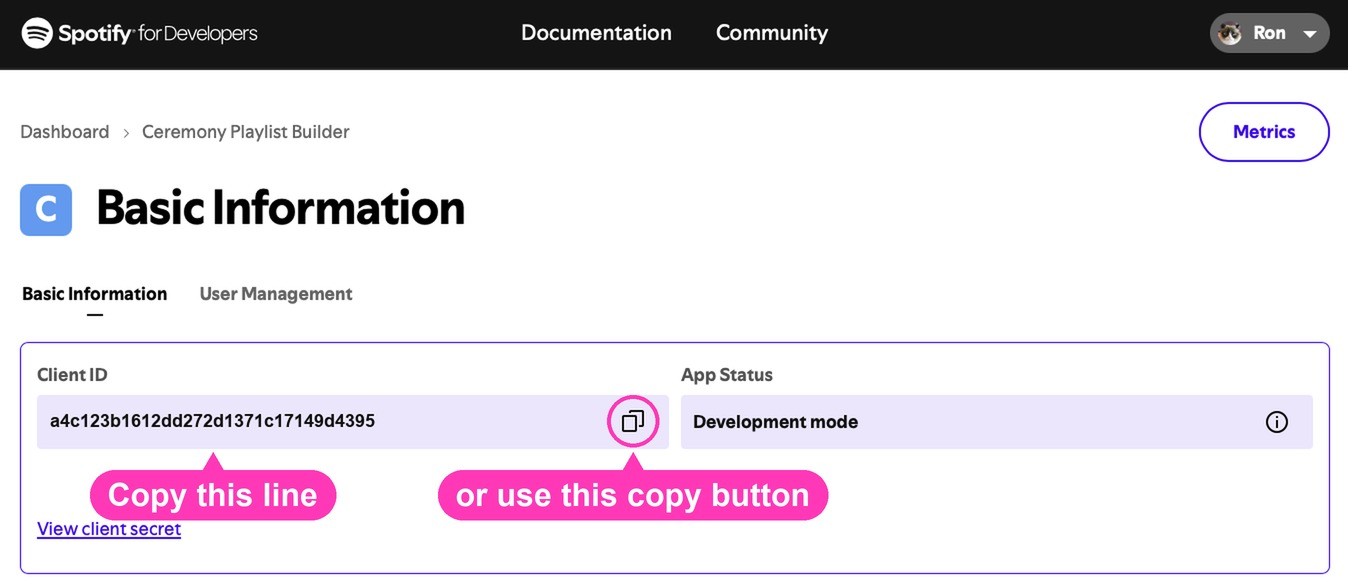
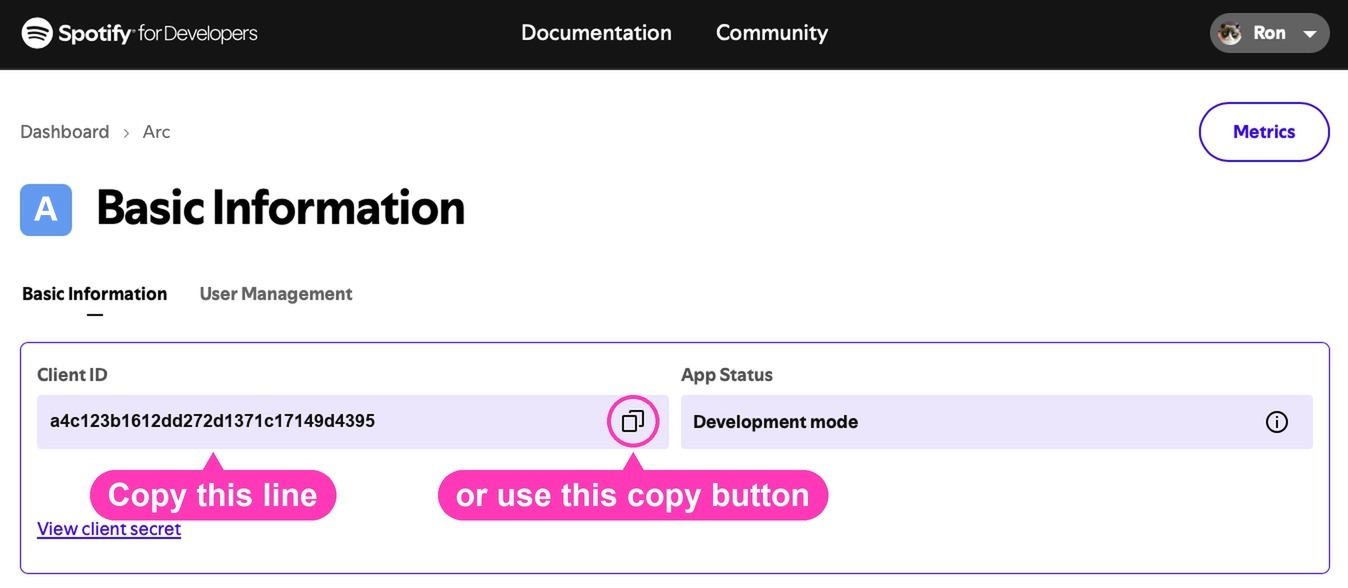
Setup screenshots show a Spotify app named Arc; worker comments and test package say Arc

diff --git a/tests/run.js b/tests/run.js
@@ -871,10 +871,10 @@ print(json.dumps(out))
   var rf = rp.document.getElementById("reportForm"), rq = reportParams(rp);
   check("the report is written in the page: a box for what happened, an optional email, and Send report, pale until something is typed", !!rf && rf.querySelector("#reportText") && rf.querySelector("#reportEmail").type === "email" && rf.querySelector(".mf-send").disabled === true && /Send report/.test(rf.querySelector(".mf-send").textContent) && !rp.document.getElementById("reportLink"));
   check("the details sent are exactly six, and nothing else", JSON.stringify(Object.keys(rq).sort()) === JSON.stringify([...REPORT_KEYS].sort()), JSON.stringify(Object.keys(rq)));
-  check("the details are real: version, browser, window size, python, last error, steps", rq.appVersion === "2026-11-11i" && / on /.test(rq.browser) && /^\d+x\d+$/.test(rq.windowSize) && /^ready \(Python v[\d.]+\)$/.test(rq.python) && rq.lastError === "none" && /^page opened > connected, 5 playlists found > python ready$/.test(rq.recentSteps), JSON.stringify(rq));
+  check("the details are real: version, browser, window size, python, last error, steps", rq.appVersion === "2026-11-11j" && / on /.test(rq.browser) && /^\d+x\d+$/.test(rq.windowSize) && /^ready \(Python v[\d.]+\)$/.test(rq.python) && rq.lastError === "none" && /^page opened > connected, 5 playlists found > python ready$/.test(rq.recentSteps), JSON.stringify(rq));
   rp.document.getElementById("reportSentToggle").click();
   var shown = rp.document.getElementById("reportPreview").textContent;
-  check("Sent with your message opens to show people exactly what goes with it", rp.document.getElementById("reportSent").hidden === false && /Version: 2026-11-11i/.test(shown) && /Browser: .* on /.test(shown) && /Window size: \d+x\d+/.test(shown) && /Python: ready \(v/.test(shown) && /Last error: none/.test(shown) && /Recent steps: page opened > connected/.test(shown), shown);
+  check("Sent with your message opens to show people exactly what goes with it", rp.document.getElementById("reportSent").hidden === false && /Version: 2026-11-11j/.test(shown) && /Browser: .* on /.test(shown) && /Window size: \d+x\d+/.test(shown) && /Python: ready \(v/.test(shown) && /Last error: none/.test(shown) && /Recent steps: page opened > connected/.test(shown), shown);
   check("the version has no label of its own in the page", rp.document.getElementById("appVersionLabel") === null);
   check("there is no include-my-formats option, and a report never carries formats (the only checkbox in Remove built playlists is the remove toggle)", !/include my formats/i.test(rp.document.body.textContent) && !("formats" in rq) && !rp.document.querySelector('#removeSection input[type="checkbox"]:not(#removeToggle)'));
   check("every Report this problem link opens the page's report form, not another site", ["mainReportHint", "removeReportHint", "loginReportHint", "connectionReportHint"].every((id) => { const a = rp.document.getElementById(id).querySelector("a"); return a.classList.contains("report-open") && a.getAttribute("href") === "#"; }));
@@ -2934,7 +2934,7 @@ print(json.dumps([counts, r["shared"], [s["has"] for s in r["sources"]], c["sour
   ws_w.eval("window.__delays = []; window.setTimeout = function (f, ms) { window.__delays.push(ms); f(); return 0; };");
   ws_w.eval(ws_src);
   ws_w.sessionStorage.setItem("startupRefreshed", "1");   // a fresh load has already been tried this visit, so the popup shows at once
-  ws_w.dispatchEvent(new ws_w.ErrorEvent("error", { message: "Unexpected token", filename: "http://127.0.0.1:8000/app.js?v=2026-11-11i", lineno: 12 }));
+  ws_w.dispatchEvent(new ws_w.ErrorEvent("error", { message: "Unexpected token", filename: "http://127.0.0.1:8000/app.js?v=2026-11-11j", lineno: 12 }));
   ws_w.dispatchEvent(new ws_w.Event("load"));
   var ws_box = ws_w.document.getElementById("startupProblem");
   check("the watchdog marks the page as not started until the script says so", ws_w.pageStart.started === false);
@@ -5280,7 +5280,7 @@ print(json.dumps([counts, r["shared"], [s["has"] for s in r["sources"]], c["sour
   var sr_make = async (opts = {}) => {
     const w = await boot({ url: "http://127.0.0.1:8000/", session: opts.session || {} });
     w.eval(sr_src);
-    w.document.head.insertAdjacentHTML("beforeend", ["theme.js", "formats.js", "editor.js", "app.js"].map((f) => `<script src="${f}?v=2026-11-11i"></script>`).join(""));   // the page's own script tags, as a browser has them (added as text, since the checks' page treats a script added by code as a file to load)
+    w.document.head.insertAdjacentHTML("beforeend", ["theme.js", "formats.js", "editor.js", "app.js"].map((f) => `<script src="${f}?v=2026-11-11j"></script>`).join(""));   // the page's own script tags, as a browser has them (added as text, since the checks' page treats a script added by code as a file to load)
     w.__fetched = []; w.__reloaded = 0;
     w.fetch = (url, init) => { w.__fetched.push({ url: String(url), cache: init && init.cache }); return Promise.resolve({ ok: opts.fetchOk !== false && !(opts.failPage && /\/$|index/.test(String(url).replace("http://127.0.0.1:8000", "") || "/")) }); };
     w.pageStart.reload = () => { w.__reloaded += 1; };

diff --git a/index.html b/index.html
@@ -17,8 +17,8 @@
     document.querySelector("#devPhoneBar button").onclick = function () { try { localStorage.removeItem("devPhoneWidth"); } catch (e) {} location.reload(); };
   })();
 </script>
-<meta name="app-version" content="2026-11-11i">
-<script src="theme.js?v=2026-11-11i"></script>
+<meta name="app-version" content="2026-11-11j">
+<script src="theme.js?v=2026-11-11j"></script>
 <meta charset="utf-8">
 <meta name="viewport" content="width=device-width, initial-scale=1, viewport-fit=cover">
 <title>Arc</title>
@@ -2458,10 +2458,10 @@
     <div id="msFlowWrap" class="ms-flowwrap" hidden><div id="msFlow" role="dialog" aria-modal="true" aria-labelledby="msFlowTitle" tabindex="-1"><div id="msFlowHead"></div><div id="msFlowBody"></div><div id="msFlowFoot" hidden></div></div></div>
   </div>
 </div>
-<script src="formats.js?v=2026-11-11i"></script>
-<script src="editor.js?v=2026-11-11i"></script>
-<script src="shared-spotify.js?v=2026-11-11i"></script>
-<script src="app.js?v=2026-11-11i"></script>
-<script src="sharing.js?v=2026-11-11i"></script>
+<script src="formats.js?v=2026-11-11j"></script>
+<script src="editor.js?v=2026-11-11j"></script>
+<script src="shared-spotify.js?v=2026-11-11j"></script>
+<script src="app.js?v=2026-11-11j"></script>
+<script src="sharing.js?v=2026-11-11j"></script>
 </body>
 </html>

diff --git a/theme.js b/theme.js
@@ -10,7 +10,7 @@
 // To add a theme, add a line to THEMES (the id is only for remembering the choice, so keep it the same once people may have chosen it; the name is what the list shows). To try two colors without changing any file, open the page with
 // ?accent=0a84ff&neutral=8a8a92 on the end of the address (hex colors; ?theme=reset goes back).
 // This file runs first, in the <head>, so the colors are in place before anything is drawn.
-(globalThis.scriptVersions = globalThis.scriptVersions || {})["theme.js"] = "2026-11-11i";   // this file's version, checked against the app's at startup (checkScriptVersions in app.js)
+(globalThis.scriptVersions = globalThis.scriptVersions || {})["theme.js"] = "2026-11-11j";   // this file's version, checked against the app's at startup (checkScriptVersions in app.js)
 
 const THEMES = [   // in the order the swatches show: around the color wheel from Pink, row by row, Silver last (Ron, 2026-11-09)
   { id: "pinks-and-grays", name: "Pink", accent: "#ff38b8", neutral: "#8a8a92" },

diff --git a/sharing.js b/sharing.js
@@ -6,7 +6,7 @@
 // and ISRCs, and a short summary made on the sharer's device; who someone is comes from their Spotify sign-in, checked by the worker.
 // The page does the rest itself: search, sorting, filters, mood words (the ones used on more than one shared playlist) and overlap with the person's recipes.
 // Classic script, loaded after app.js; it uses app.js and editor.js names at run time.
-(globalThis.scriptVersions = globalThis.scriptVersions || {})["sharing.js"] = "2026-11-11i";   // this file's version, checked against the app's at startup (checkScriptVersions in app.js)
+(globalThis.scriptVersions = globalThis.scriptVersions || {})["sharing.js"] = "2026-11-11j";   // this file's version, checked against the app's at startup (checkScriptVersions in app.js)
 
 const SHARING_URL = "https://music-sharing.roncarmel.workers.dev";
 const SHARE_DESC_MAX = 300, SHARE_OTHER_MAX = 24, SHARE_MOOD_CHARS = 30, SHARE_MOODS_MAX = 8;   // the worker checks the same

diff --git a/shared-spotify.js b/shared-spotify.js
@@ -1,7 +1,7 @@
 // shared-spotify.js: talking to Spotify, shared by this repository's apps (the playlist builder, and later the tagger). Sign-in (PKCE in the browser,
 // no secret, no server), the refresh token, requests with their limits and waits, and the record of those limits. It shows nothing itself: each page
 // fills spotifyHooks with what to do and say, so this file names no element of any page. Loaded before the page's own script.
-(globalThis.scriptVersions = globalThis.scriptVersions || {})["shared-spotify.js"] = "2026-11-11i";   // this file's version, checked against the app's at startup (checkScriptVersions in app.js)
+(globalThis.scriptVersions = globalThis.scriptVersions || {})["shared-spotify.js"] = "2026-11-11j";   // this file's version, checked against the app's at startup (checkScriptVersions in app.js)
 
 const spotifyHooks = {
   scopes: "",                  // the permissions the sign-in asks for, space separated

diff --git a/formats.js b/formats.js
@@ -2,7 +2,7 @@
 //
 // The text is the same Python-style text the engine reads (engine.py). The editor never asks people to
 // type it; it only keeps it up to date. Nothing in this file touches the page.
-(globalThis.scriptVersions = globalThis.scriptVersions || {})["formats.js"] = "2026-11-11i";   // this file's version, checked against the app's at startup (checkScriptVersions in app.js)
+(globalThis.scriptVersions = globalThis.scriptVersions || {})["formats.js"] = "2026-11-11j";   // this file's version, checked against the app's at startup (checkScriptVersions in app.js)
 
 // Silence lengths the editor steps through, in seconds: 30 sec, 1 to 10 min by the minute, then every 5 min up to 60 min
 const SILENCE_STEPS = [30, 60, 120, 180, 240, 300, 360, 420, 480, 540, 600, 900, 1200, 1500, 1800, 2100, 2400, 2700, 3000, 3300, 3600];

diff --git a/editor.js b/editor.js
@@ -4,7 +4,7 @@
 // ($("formats")) in the form the engine reads, and the page is told with an ordinary "input" event, so
 // everything else (previews, backups, saving) works on that text exactly as before.
 // formats.js does the reading and writing of that text. This file draws and handles the screen.
-(globalThis.scriptVersions = globalThis.scriptVersions || {})["editor.js"] = "2026-11-11i";   // this file's version, checked against the app's at startup (checkScriptVersions in app.js)
+(globalThis.scriptVersions = globalThis.scriptVersions || {})["editor.js"] = "2026-11-11j";   // this file's version, checked against the app's at startup (checkScriptVersions in app.js)
 
 // The editor has one color, the theme's accent (--button), and a deeper shade of it (--accent-deep) for the second stripe of a mix.
 const FE_ROW_HEIGHT = 52;

diff --git a/cloudflare/music-sharing/worker.js b/cloudflare/music-sharing/worker.js
@@ -1,4 +1,4 @@
-// Music sharing: a Cloudflare Worker with a D1 database (schema.sql), for Ceremony Playlist Builder.
+// Music sharing: a Cloudflare Worker with a D1 database (schema.sql), for Arc.
 // People share their own playlists (a type: ceremony, phase, mood or other, with its books, phases, mood words or name, a description,
 // the songs as Spotify IDs and ISRCs, a short summary) and copy each other's.
 // Each song's title, artist and length are kept too, but sent only for one playlist at a time (GET /songs/:id, when its page opens), never with the library.

diff --git a/app.js b/app.js
@@ -15,7 +15,7 @@ const ADD_CHUNK_SMALL = 10; // what is tried instead if Spotify refuses 100
 const REMOVE_CHUNK = 40;   // playlists removed per request (Spotify's maximum)
 
 const ALL_FORMATS = "__all__";  // dropdown value that means every format
-const APP_VERSION = "2026-11-11i";
+const APP_VERSION = "2026-11-11j";
 
 // Every playlist this app creates gets this at the start of its description. That is the one way the app tells its
 // own playlists from ones you made by hand, so it works on any device, and nothing is stored in this browser for it.

diff --git a/cloudflare/retry-after.js b/cloudflare/retry-after.js
@@ -1,4 +1,4 @@
-// A Cloudflare Worker for Ceremony Playlist Builder.
+// A Cloudflare Worker for Arc.
 // Spotify sends a Retry-After header with a rate limit, but does not let a web page read it. After a rate limit with no readable wait, the page asks this
 // worker to send one GET to Spotify with the person's sign-in, and the worker answers with only the status, Retry-After and the reason.
 // Spotify limits each kind of request on its own (/me can answer while /me/playlists is refused), so the page says which kind, as ?path=, and

diff --git a/CLAUDE.md b/CLAUDE.md
@@ -111,7 +111,7 @@ Naming: the person sees "recipe". The code still says "format" in identifiers (`
 - Reports: a reason and an optional note, emailed to Ron through Resend; three reports from different people hide a playlist. The email's links are signed and lead to a page with a button (mail scanners change nothing). The DEV menu has Manage mood words (words with counts, "piano (9)"; click to hide or show, struck through when hidden; filters Shown, Hidden, All) and Review reports, each opening alone in `#infoOverlay` (`#devMoods`, `#devReports`), shown only to Ron (the worker checks every change anyway, `OWNER_SPOTIFY_IDS`); someone who finds developer mode never sees them.
 
 **Interface**
-- **Arc's home** (decided by Ron, 2026-11-08, mockup A and bar 1 in `mockups/arc-home.html`): the app page has three views, a class on `<html>` (`view-home`, `view-builder`, `view-sharing`; `showView`, `goHome`, `appView` in app.js). It always opens on home (the `<head>` script adds `view-home`; Ron chose this over opening the last tool). Home (`#homePage`, `hp-*`; layout C, decided by Ron, 2026-11-08): the welcome page's pink band (icon, Arc, tagline; a tap on the icon shows the version, a hold toggles developer mode), Your tools, then a card per tool of three lines that never wrap (A1, decided by Ron, 2026-11-09, `mockups/home-a1-iter-2.html`): an icon as tall as the first two lines and lined up with them, the name, a grey tagline, and what is waiting, its numbers pink, bold and 1.15 times larger without making the line taller (`hp-num`, `putCounts`), then a grey chevron. Playlist builder, Ceremony playlists, ready in minutes, **N recipes ready to build** (no recipes: the card is its first two lines; `renderHomeRecipes` in app.js, called from `syncEditorFromText` and on showing home); Shared playlist library, Bring some, get some!, **Y shares by you, Z by others** (always both, zeros too; "shares" on purpose, not playlists) (`renderSharingCard`; hidden while Coming soon). The taglines and the third lines' words share one size, shrunk together by a tenth of a pixel only when one would not fit (`fitHomeLines`). Then Everything else. Arc's bar is hidden on home outside developer mode (it would be empty). Arc's bar (`#appBar`, `ab-*`) is over every view: the icon and Arc go home, then / and the tool's name as a capsule (below 760 px the sharing tool is Shared playlists, since Shared playlist library does not fit; `toolName`, Ron, 2026-11-09, `mockups/bar-name-fit.png`; renamed 2026-11-10, `mockups/name-new-*.png`; at 320 px it is cut short, as the old name was) with a pink caret that opens a list (`#appToolMenu`, `ab-mi`, `openToolMenu`/`chooseTool` in app.js; decided by Ron, 2026-11-08, `mockups/switch-tools.html` A): both tools with their taglines, the one shown ticked, Music sharing greyed as Coming soon outside developer mode, then Arc home; going from one tool to the other replaces the tool's history step, so back still goes home; a tap elsewhere only closes it, Escape too. Then the ⋯ menu (`#feAppMenu`, moved out of the editor's top row; the editor's rules are copied for the bar at startup, `copyEditorStylesToBar` in editor.js). The ⋯ shows in both tools, not on home (`html.page-app.view-home #feAppMenu`); in Music sharing it holds Connect to Spotify while not connected, Feedback, Report a problem and the version (Ron, 2026-11-10). From one tool to the other the tool below Arc's bar slides half a screen and fades, as if Music sharing sat below the builder: to sharing it goes up, to the builder down; the bar stays, its name crossfading (`slideTools` in app.js, `vt-tools` in index.html, View Transitions; none under reduced motion; Ron, 2026-11-08, `mockups/tool-motion.html` B over a full push, a quarter screen, 30 px and a plain fade). Between home and a tool the whole screen slides sideways like the setup screens, a tool in from the right and home back from the left (`slideHome`, `vt-home`; also for the browser's back, not when the browser animates the gesture itself; Ron, 2026-11-09). Home has, under the tool cards, **Everything else** (`#homeMore`, `hp-ee-*`; decided by Ron, 2026-11-09, `mockups/home-a1-iter-2.html` E4): one card that is a bar of grey icons, each a tab (Color, Change Spotify login, Sign out and clear data, Privacy, Report a problem, Feedback; no title). Color is a grid of swatches, six to a row, around the color wheel from Pink with Silver last (the order of `THEMES`), the chosen one ringed and no name shown (`initThemeChooser`, a radio group). A tap lights one in a pale pink square and opens its panel under the bar (`openHomeTab`, `initHomeMore` in app.js); the X at the bar's end (kept in place, invisible, while nothing is open), a tap on the lit icon, or Escape closes it; arrow keys move between icons. Report a problem's panel holds `#reportBlock` itself (the builder's menu and every Report this problem link, `.report-open`, `openReport`, open it in `#infoOverlay`, and it comes back). **Report a problem and Feedback are forms in Arc** (decided by Ron, 2026-11-09, over Tally; `mockups/report-no-tally.html`): a box (What happened? or Your message), an optional email for a reply, and Send report or Send, pale until something is typed; a report adds the six details (`reportDetails`), shown behind Sent with your message. Sending posts to the worker's POST /message (`sendMessageForm`, `.mf-*`), which emails Ron through Resend with the email as reply-to, keeps nothing, and takes at most 10 a day per address (an HMAC of the IP in `daily`). Then a check, Report sent or Sent, and Send another. The report's line is in Ron's voice: I (Ron) read every report and respond when I can. The worker must be deployed for it to work. **Privacy** (`#privacySection`, decided by Ron, 2026-11-08) is short: a lead line on what Arc stands for (runs in your browser, stays between the browser and the person's own Spotify unless shared, no accounts or ads), then one bulleted line each: In this browser, In your Spotify, Music sharing (`#privacyMusicSharing`, only in developer mode), Tutorial video, Anonymous counts, Spotify waits (`#privacyWaitRelay`, only with a relay), Reports and feedback (emailed only when sent). Keep it brief; it was a long popup of seven topics before. Music sharing has no menu of its own yet. Opening a tool pushes a history step, so back returns home; a reload clears it. Setup complete's Continue leaves home in view. Built playlists' marker is now "Made by Arc"; the old "Made by Ceremony Playlist Builder" is still read (`OLD_APP_MARKERS`, `madeByAppText`). Not yet: notices and the attention line live in the builder only, so they are not seen from home or Music sharing; the setup screenshots still show an app named Ceremony Playlist Builder.
+- **Arc's home** (decided by Ron, 2026-11-08, mockup A and bar 1 in `mockups/arc-home.html`): the app page has three views, a class on `<html>` (`view-home`, `view-builder`, `view-sharing`; `showView`, `goHome`, `appView` in app.js). It always opens on home (the `<head>` script adds `view-home`; Ron chose this over opening the last tool). Home (`#homePage`, `hp-*`; layout C, decided by Ron, 2026-11-08): the welcome page's pink band (icon, Arc, tagline; a tap on the icon shows the version, a hold toggles developer mode), Your tools, then a card per tool of three lines that never wrap (A1, decided by Ron, 2026-11-09, `mockups/home-a1-iter-2.html`): an icon as tall as the first two lines and lined up with them, the name, a grey tagline, and what is waiting, its numbers pink, bold and 1.15 times larger without making the line taller (`hp-num`, `putCounts`), then a grey chevron. Playlist builder, Ceremony playlists, ready in minutes, **N recipes ready to build** (no recipes: the card is its first two lines; `renderHomeRecipes` in app.js, called from `syncEditorFromText` and on showing home); Shared playlist library, Bring some, get some!, **Y shares by you, Z by others** (always both, zeros too; "shares" on purpose, not playlists) (`renderSharingCard`; hidden while Coming soon). The taglines and the third lines' words share one size, shrunk together by a tenth of a pixel only when one would not fit (`fitHomeLines`). Then Everything else. Arc's bar is hidden on home outside developer mode (it would be empty). Arc's bar (`#appBar`, `ab-*`) is over every view: the icon and Arc go home, then / and the tool's name as a capsule (below 760 px the sharing tool is Shared playlists, since Shared playlist library does not fit; `toolName`, Ron, 2026-11-09, `mockups/bar-name-fit.png`; renamed 2026-11-10, `mockups/name-new-*.png`; at 320 px it is cut short, as the old name was) with a pink caret that opens a list (`#appToolMenu`, `ab-mi`, `openToolMenu`/`chooseTool` in app.js; decided by Ron, 2026-11-08, `mockups/switch-tools.html` A): both tools with their taglines, the one shown ticked, Music sharing greyed as Coming soon outside developer mode, then Arc home; going from one tool to the other replaces the tool's history step, so back still goes home; a tap elsewhere only closes it, Escape too. Then the ⋯ menu (`#feAppMenu`, moved out of the editor's top row; the editor's rules are copied for the bar at startup, `copyEditorStylesToBar` in editor.js). The ⋯ shows in both tools, not on home (`html.page-app.view-home #feAppMenu`); in Music sharing it holds Connect to Spotify while not connected, Feedback, Report a problem and the version (Ron, 2026-11-10). From one tool to the other the tool below Arc's bar slides half a screen and fades, as if Music sharing sat below the builder: to sharing it goes up, to the builder down; the bar stays, its name crossfading (`slideTools` in app.js, `vt-tools` in index.html, View Transitions; none under reduced motion; Ron, 2026-11-08, `mockups/tool-motion.html` B over a full push, a quarter screen, 30 px and a plain fade). Between home and a tool the whole screen slides sideways like the setup screens, a tool in from the right and home back from the left (`slideHome`, `vt-home`; also for the browser's back, not when the browser animates the gesture itself; Ron, 2026-11-09). Home has, under the tool cards, **Everything else** (`#homeMore`, `hp-ee-*`; decided by Ron, 2026-11-09, `mockups/home-a1-iter-2.html` E4): one card that is a bar of grey icons, each a tab (Color, Change Spotify login, Sign out and clear data, Privacy, Report a problem, Feedback; no title). Color is a grid of swatches, six to a row, around the color wheel from Pink with Silver last (the order of `THEMES`), the chosen one ringed and no name shown (`initThemeChooser`, a radio group). A tap lights one in a pale pink square and opens its panel under the bar (`openHomeTab`, `initHomeMore` in app.js); the X at the bar's end (kept in place, invisible, while nothing is open), a tap on the lit icon, or Escape closes it; arrow keys move between icons. Report a problem's panel holds `#reportBlock` itself (the builder's menu and every Report this problem link, `.report-open`, `openReport`, open it in `#infoOverlay`, and it comes back). **Report a problem and Feedback are forms in Arc** (decided by Ron, 2026-11-09, over Tally; `mockups/report-no-tally.html`): a box (What happened? or Your message), an optional email for a reply, and Send report or Send, pale until something is typed; a report adds the six details (`reportDetails`), shown behind Sent with your message. Sending posts to the worker's POST /message (`sendMessageForm`, `.mf-*`), which emails Ron through Resend with the email as reply-to, keeps nothing, and takes at most 10 a day per address (an HMAC of the IP in `daily`). Then a check, Report sent or Sent, and Send another. The report's line is in Ron's voice: I (Ron) read every report and respond when I can. The worker must be deployed for it to work. **Privacy** (`#privacySection`, decided by Ron, 2026-11-08) is short: a lead line on what Arc stands for (runs in your browser, stays between the browser and the person's own Spotify unless shared, no accounts or ads), then one bulleted line each: In this browser, In your Spotify, Music sharing (`#privacyMusicSharing`, only in developer mode), Tutorial video, Anonymous counts, Spotify waits (`#privacyWaitRelay`, only with a relay), Reports and feedback (emailed only when sent). Keep it brief; it was a long popup of seven topics before. Music sharing has no menu of its own yet. Opening a tool pushes a history step, so back returns home; a reload clears it. Setup complete's Continue leaves home in view. Built playlists' marker is now "Made by Arc"; the old "Made by Ceremony Playlist Builder" is still read (`OLD_APP_MARKERS`, `madeByAppText`). Not yet: notices and the attention line live in the builder only, so they are not seen from home or Music sharing. The setup screenshots show a Spotify app named Arc, its name and letter put into the original shots in Spotify's own font (2026-11-11).
 - **Arc's icon in the page takes the theme's color** (decided by Ron, 2026-11-09): `arc-mark.png` is the white arc and the icon's shading, cut from `app-icon-1024.png` against its pink, drawn over `--icon-bg` (theme.js: the accent a little richer and darker, so the arc stands out on pale accents; Silver stays grey). The bands' icons and tool cards use it as a background, every `<img>` of the icon uses `src="arc-mark.png"` with `img[src="arc-mark.png"]` giving the color. The tools' badges draw in `--icon-ink` (readable on their white circle). The tab icon, the Home Screen icon, the launch pictures and the Spotify covers stay pink.
 - **The top strip** (`#topEdge`, `restStrip` in app.js; Ron, 2026-11-09): the Home Screen app on iOS 26 blurs the top of the page even at rest, reaching onto the band or Arc's bar (Safari's blur stays under the status bar, so Safari tabs get no strip). A fixed strip reaching 6 px below the status bar (whose inset is 0 there: the page starts below it) at 10% of `--bg` makes iOS stop that blur; 5% does not, and a strip only as tall as the status bar does nothing. It is there only while the page rests at its top (the window, or `#msBody` in Music sharing), so scrolling keeps the soft blur, and is put in as a new element 250 ms after scrolling stops at the top, because iOS does not notice a strip that only comes back (a small pop as the blur goes is expected). Found with test pages on Ron's iPhone: status bar styles, viewport-fit and longer solid strips were tried; solid strips cut the page off sharply.
 - **The welcome page** (decided by Ron, 2026-11-08, `mockups/welcome-v5.html`; its tool cards in home's look since 2026-11-09) has two steps. First (`#wpFirst`): a pink band with Arc's icon exactly as tall as the name and the two-line tagline beside it, the same gap on its left, top and bottom (`wp-band`, shown on both steps; `alignWelcomeIcons` sizes each icon to its letters with canvas text metrics, `letterBounds`); "Free tools for facilitators..." (no "sessions" as a use, a check enforces it); Requires Spotify Premium with Why?; Tools; a card per tool in home's look (Arc's icon with a white badge at the bottom right, `tool-icon`/`tool-badge`: rows for the builder, two arrows for sharing; the name; a grey tagline on one line, Ceremony playlists, ready in minutes and Bring some, get some!; a grey chevron that turns as it opens) and, outside developer mode, Music sharing's card under its own Coming soon heading (`#wpSoon`), like Tools that opens in place to its screenshot and text, one at a time (`toggleWelcomeTool`; the builder's has Where it helps as plain text); Get started. The sharing card's screenshot sits beside its text from 640 px up and above it on phones, light or dark (`welcome-sharing.jpg` dark, `-light`); the builder's card has the tutorial instead of a screenshot (see The tutorial video).jpg` dark, `-light`). Second (`#wpSetup`, `showWelcomeStep`, a history step so back returns; Ron, 2026-11-08, `mockups/welcome-setup-s3c.html`): under the band a dashed line leaves Arc's icon, turns right, passes a link at the middle of its level part (the check waits for the connection itself, on the connecting screen) and meets Spotify's mark (flat, white bars on a pink circle, no glow: Spotify's brand rules ask for no effects), placed where it would sit inside the band, Your Spotify under it; the dashes flow from Spotify to Arc, still under reduced motion (`drawSetupJoint`). Then Connect your Spotify account, one reassuring sentence (no dashboard or Client ID here, so nobody is scared off), Spotify Premium is needed for the connection., Back and Start setup. The welcome page hides `h1.brand`. The setup page that follows (decided by Ron, 2026-11-08, `mockups/setup-question-c3.html`) has the same band in place of `h1.brand` (on its steps too) and, over the question, the same line to Spotify's mark with the same link at its middle (`#spJoint`; `drawSetupJoint` draws every `.wp-joint`); while the steps show, the band is sticky where it sits and the steps scroll under it (Ron, 2026-11-08); the band stays still as the screens slide; the setup line stays as it is between two screens that both have it; arriving, its dashes fade in over 0.25 s ending with the slide while its marks slide in; leaving, the dashes fade out quickly while the marks slide out (view transition names `wp-wire`, `wp-ok`, `wp-spot`; always under the icon; Ron, 2026-11-08). While a screen slides, `#vtCover` (the page's background from the top to the band's foot) stays still, so nothing moves behind the band. Then Have you set up Arc before?, Either way, clear steps follow., a card per answer (`sp-choice`) saying only how long it takes (Takes a couple of minutes., Takes about a minute.), and Back. Nothing there about tabs, the Spotify app or the Client ID: concepts the person has not met yet.
